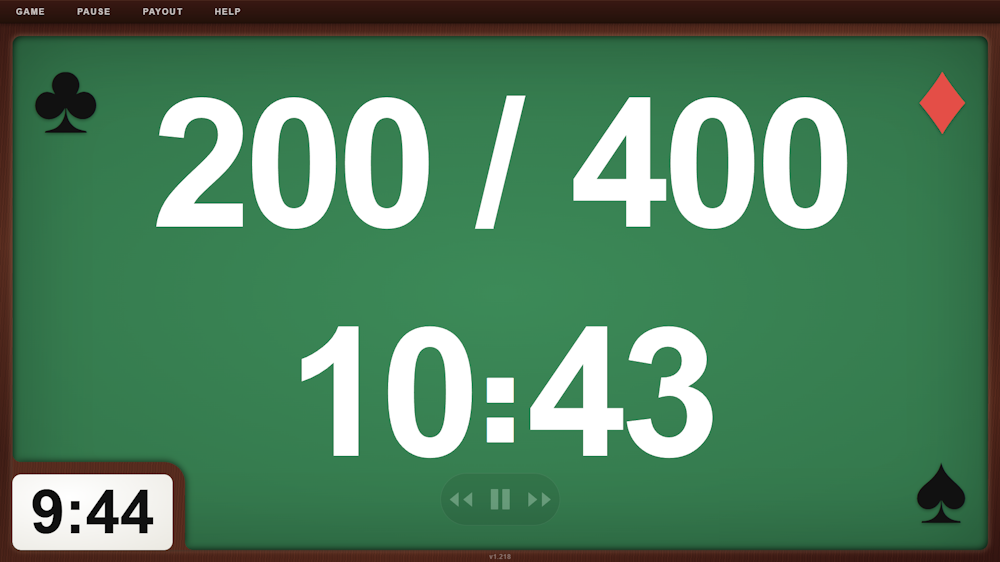
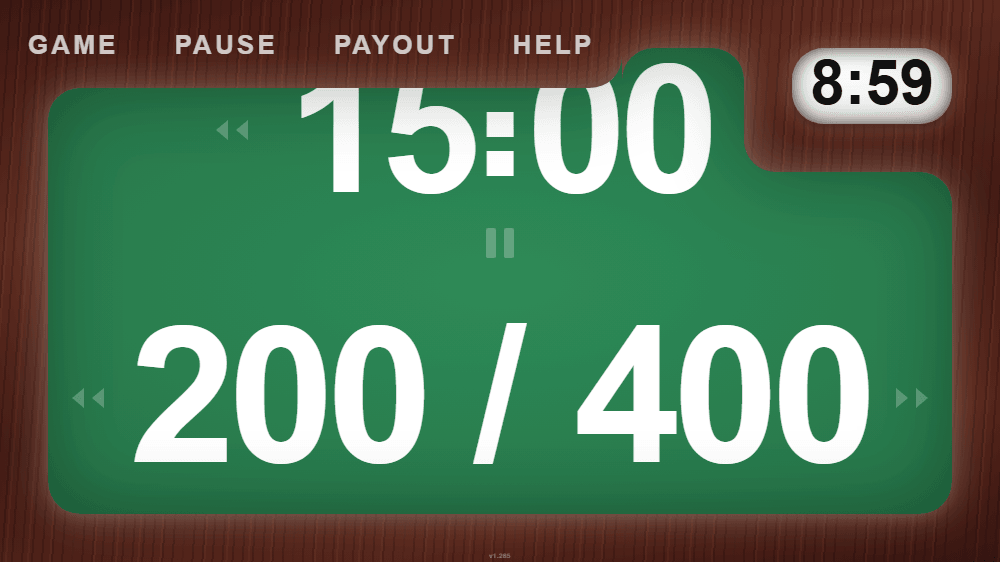
Update screenshot.png to reflect current UI
Replaces the outdated v1.218 capture (unicode suit-glyph corners, old
layout) with a fresh v1.265 screenshot of the running timer, following
screenshot.md's spec: 1000x562px, 144dpi, palette-compressed PNG (~75KB,
under the 250KB cap).

diff --git a/index.html b/index.html
@@ -1080,7 +1080,7 @@ body.split-open #rotate-prompt{display:none!important;}
 </div>
 
 <script>
-const VERSION='v1.265';
+const VERSION='v1.266';
 
 // ── DOM cache ─────────────────────────────────────────────────────
 const elBSB=document.getElementById('bSB');
